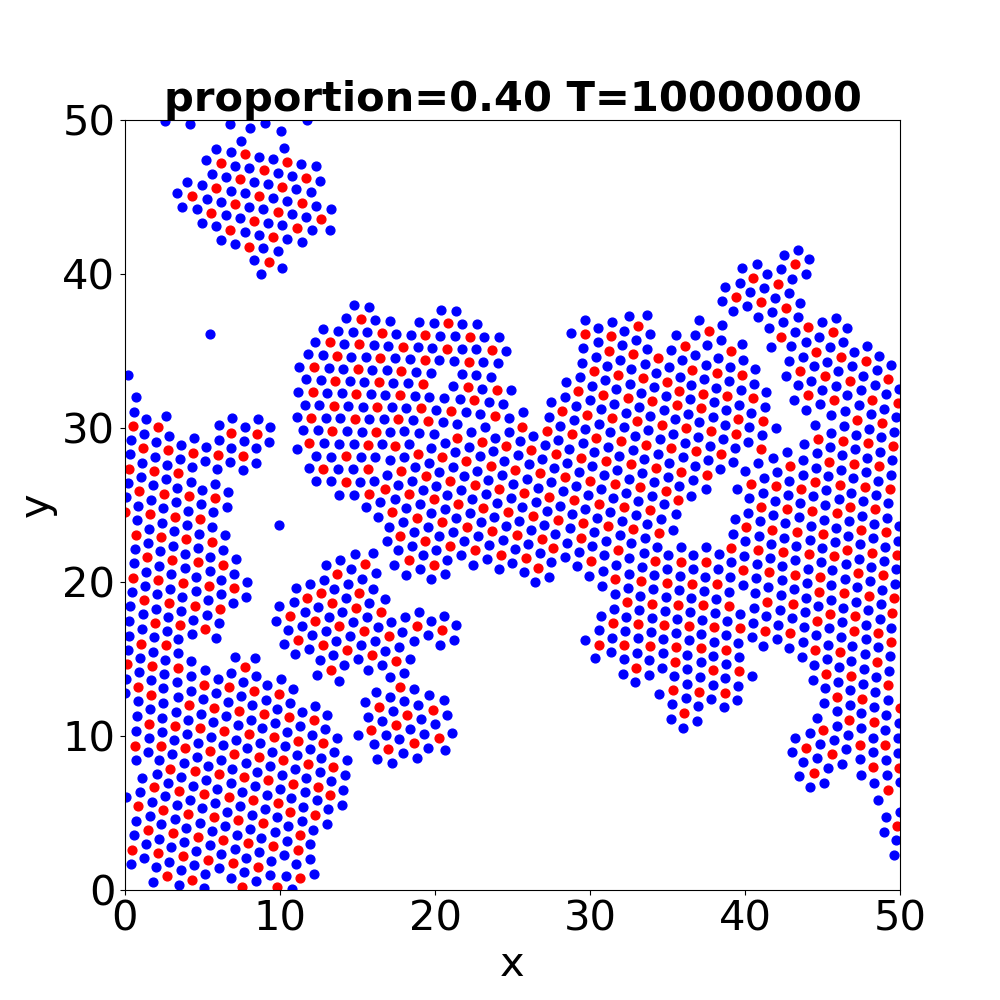
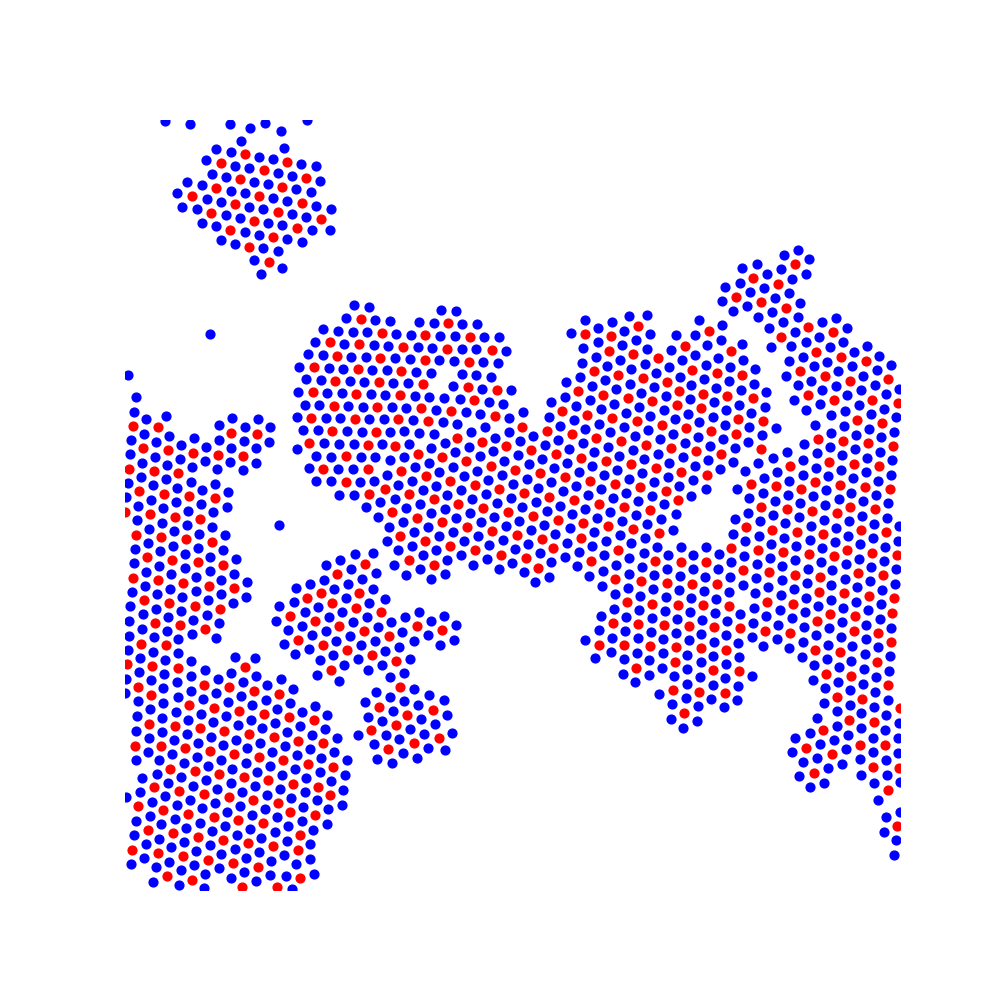
nothing

diff --git a/plot.py b/plot.py
@@ -8,6 +8,7 @@ import sys
 
 displacementX=5
 displacementY=-10
+blankAxis=0
 
 path0 = './'
 
@@ -40,15 +41,20 @@ for i in range(Nt+1):
     plt.scatter(data_i[Na:Na+Nb-1,0],data_i[Na:Na+Nb-1,1], s=40, c='b',marker='o')
     plt.xlim(0,Lx)
     plt.ylim(0,Ly)
-    plt.xticks(fontsize=30)
-    plt.yticks(fontsize=30)
-    plt.xlabel('x',fontsize=30)
-    plt.ylabel('y',fontsize=30)
-    title_fontdict = {
-        'fontsize': 30,  # 字体大小
-        'fontweight': 'bold'  # 字体粗细
-        }
-    plt.title("proportion={:.2f} T={}".format(Na/Nb, i*tStop), fontdict=title_fontdict)
+    if blankAxis==1:
+        plt.xticks(fontsize=30)
+        plt.yticks(fontsize=30)
+        plt.xlabel('x',fontsize=30)
+        plt.ylabel('y',fontsize=30)
+        title_fontdict = {
+            'fontsize': 30,  # 字体大小
+            'fontweight': 'bold'  # 字体粗细
+            }
+        plt.title("proportion={:.2f} T={}".format(Na/Nb, i*tStop), fontdict=title_fontdict)
+    if blankAxis==0:
+        plt.axis('off')
+        plt.xticks([])
+        plt.yticks([])
     plt.savefig(path + '/temp/fig_'+str(i)+'.png')
     plt.close() 
 
